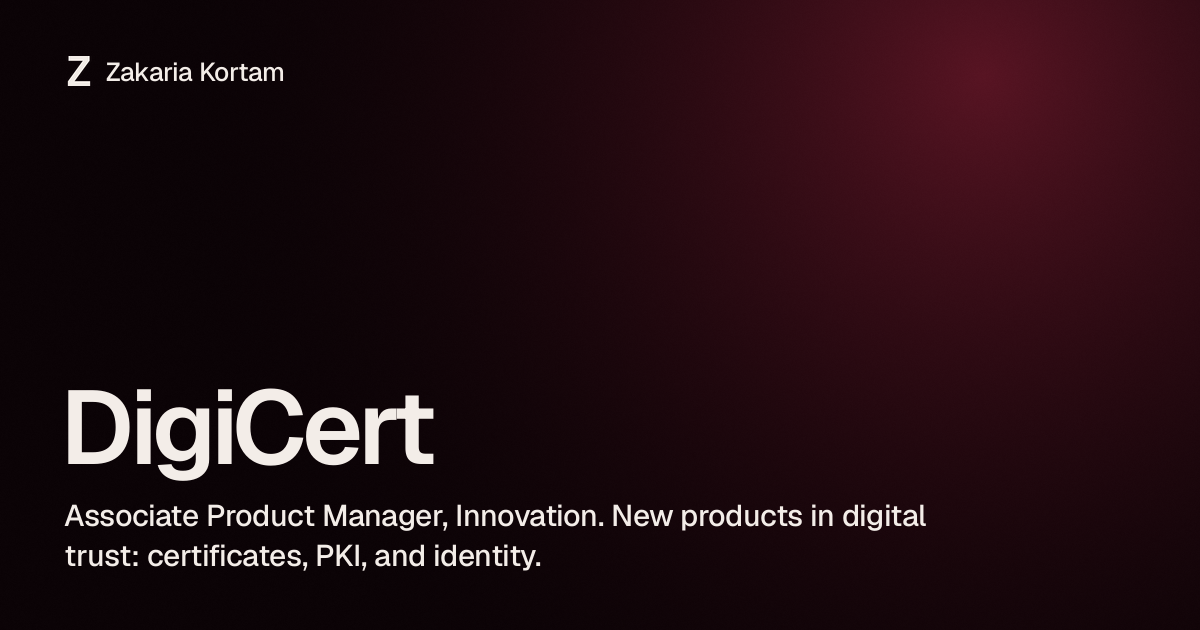
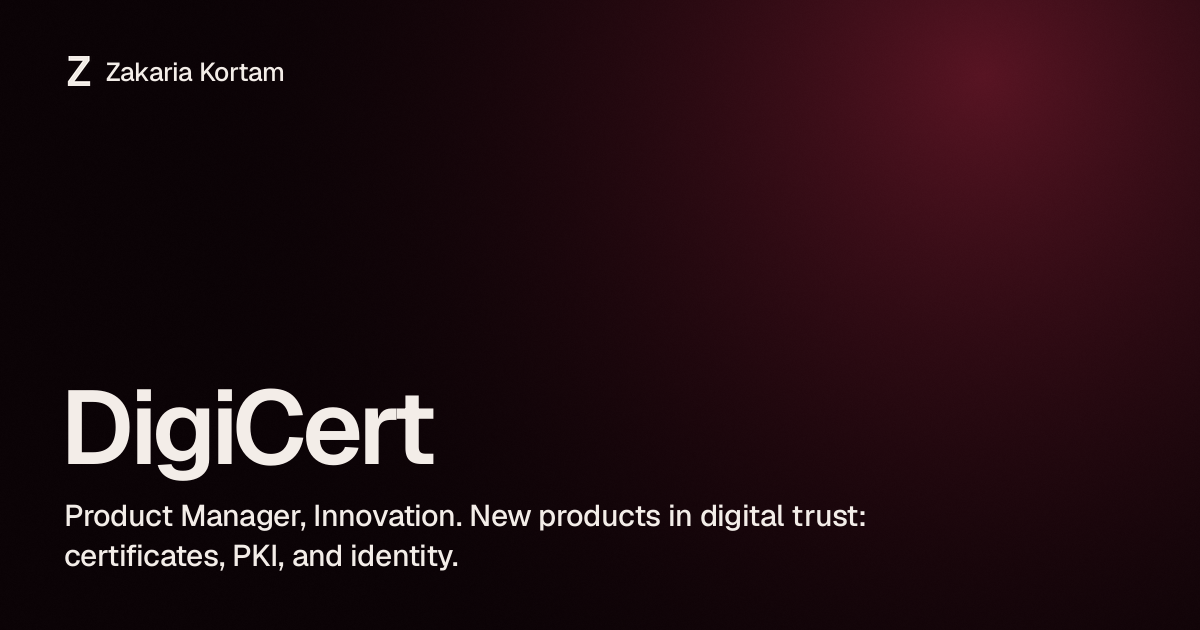
Share cards and home share alt: Product Manager at DigiCert

Changed region(s): [[0.0308, 0.7841, 0.7708, 0.9048]]

diff --git a/src/app/opengraph-image.tsx b/src/app/opengraph-image.tsx
@@ -1,7 +1,7 @@
 import { readFile } from 'node:fs/promises'
 import { join } from 'node:path'
 
-export const alt = 'Zakaria Kortam, Associate Product Manager at DigiCert'
+export const alt = 'Zakaria Kortam, Product Manager at DigiCert'
 export const size = { width: 1200, height: 630 }
 export const contentType = 'image/png'
 

diff --git a/scripts/build-brand.py b/scripts/build-brand.py
@@ -185,7 +185,7 @@ def home_card():
     fade[..., 3] = (np.clip((np.arange(H)[:, None] - (H - 120)) / 120, 0, 1) * 200).astype('uint8')
     im.alpha_composite(Image.fromarray(fade, 'RGBA'))
     header(im, 'dark')
-    title_block(im, 'dark', 'Zakaria Kortam', 'Associate Product Manager at DigiCert. I build products from zero to one.', 560)
+    title_block(im, 'dark', 'Zakaria Kortam', 'Product Manager at DigiCert. I build products from zero to one.', 560)
     save(im, 'home.png')
 
 
